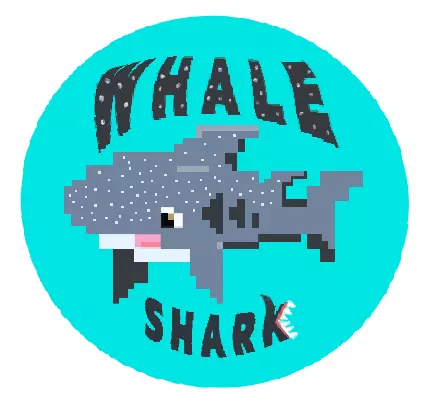
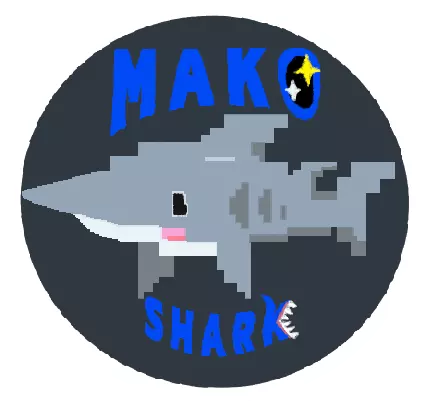
Chnage shark img name and Built Group Service.

diff --git a/src/components/ProfileBox.jsx b/src/components/ProfileBox.jsx
@@ -2,10 +2,12 @@ import React, { useEffect } from "react";
 import Aos from "aos";
 import "../css/profileBox.css";
 import ProfileGroup from "./ProfileGroup";
+import { getGroup } from "../services/groupService";
 import { useSelector } from "react-redux";
 
 function ProfileBox({ toggleModalNickname, toggleModalPassword }) {
   const userDetail = useSelector((state) => state.userDetail.user);
+  const group = getGroup(userDetail.group)[0];
 
   useEffect(() => {
     Aos.init({ duration: 1000 });
@@ -29,7 +31,7 @@ function ProfileBox({ toggleModalNickname, toggleModalPassword }) {
               Nickname : <span>{userDetail.nickName}</span>
             </h2>
             <h2>
-              Team : <span>{userDetail.group}</span>
+              Team : <span>{group.name}</span>
             </h2>
           </div>
           <div className="btn__row">

diff --git a/src/services/groupService.js b/src/services/groupService.js
@@ -1,0 +1,12 @@
+export const groups = [
+  { id: "0", name: "Blacktip reef Shark" },
+  { id: "1", name: "Moko Shark" },
+  { id: "2", name: "Hammerhead Shark" },
+  { id: "3", name: "Whale Shark" },
+  { id: "4", name: "Lemon Shark" },
+  { id: "5", name: "Admin Shark" },
+];
+
+export function getGroup(id) {
+  return groups.filter((i) => id == i.id);
+}
